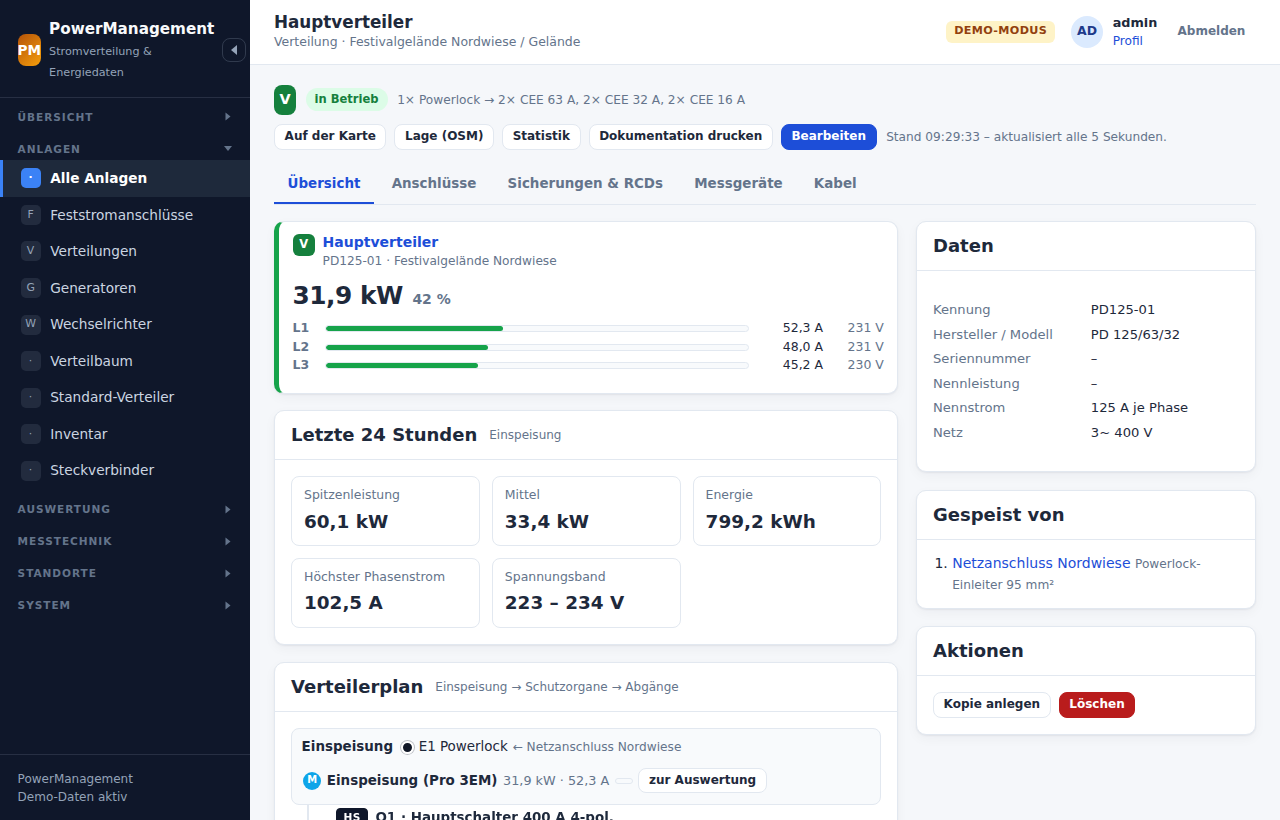
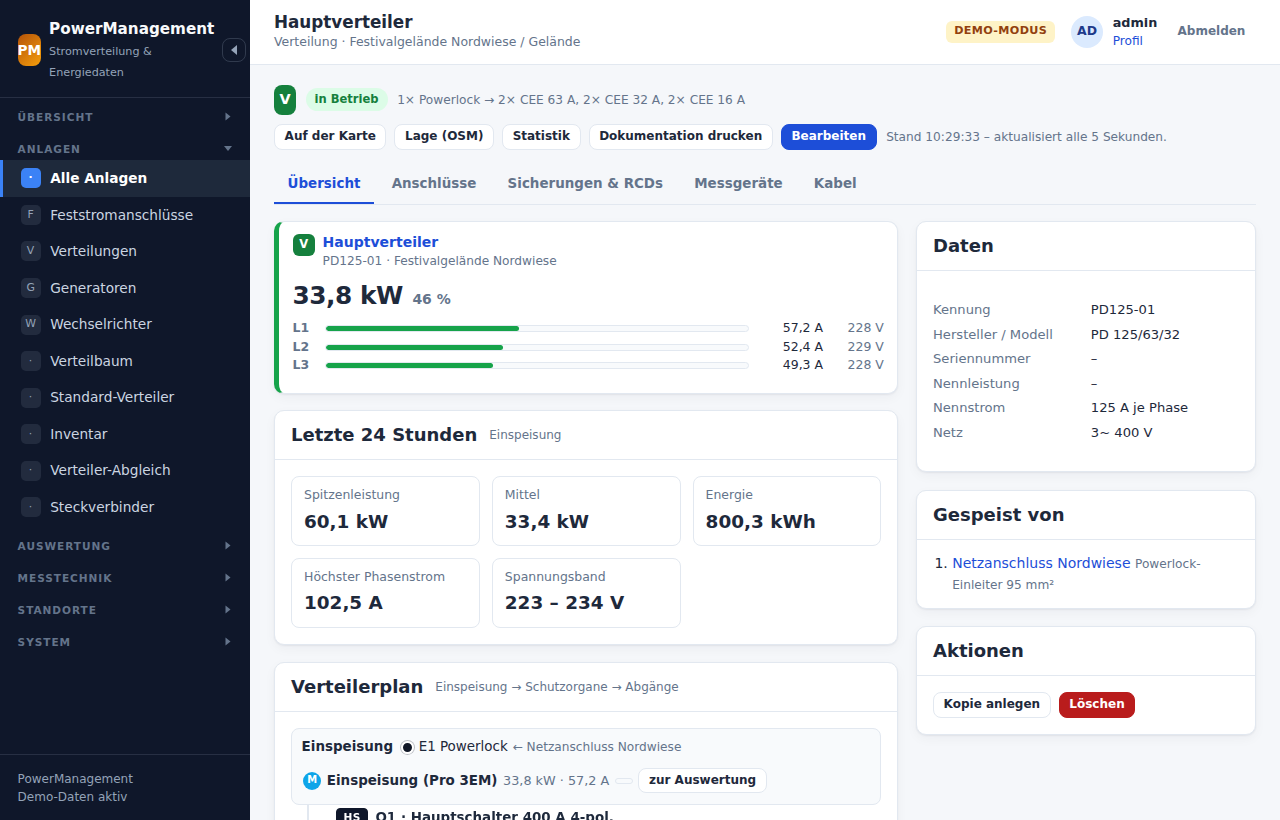
Aufnahme-Skript: Verteiler-Abgleich mit eigenem Repository; neue Adresse holt neu
docs/bilder/aufnehmen.mjs nimmt jetzt auch den Verteiler-Abgleich auf.
Dafür legt es sich ein Repository im Temp-Ordner an (git init --bare,
file://) – kein Token, kein Netz, auf GitHub landet nichts. Es lädt alles
hoch, lässt eine „zweite Installation“ (Lager) per git einen Shelly tauschen,
einen Verteiler anlegen und eine Seriennummer nachtragen, ändert hier zwei
Notizen und fotografiert die Liste mit allen Fällen. Danach stehen
Repository-Einstellung und Abgleich-Vermerke wieder wie vorher.

Dabei aufgefallen und behoben:
- Wurde in den Einstellungen eine andere Repository-Adresse eingetragen,
  arbeitete die Arbeitskopie still mit der alten weiter; ein leeres neues
  Repository hätte beim ersten Hochladen die Geschichte des alten bekommen.
  Jetzt wird die Arbeitskopie dann neu geholt (Prüfung im Test).
- Im Menü waren auf Unterseiten wie /anlagen/katalog zwei Einträge
  markiert (auch „Alle Anlagen“). Jetzt gewinnt der genaueste Pfad.

Neue und geänderte Bilder: verteiler-abgleich, katalog, inventar,
inventar-stueck, anlage, einsetzen, location (Menüeintrag, Knöpfe).

Claude-Session: https://claude.ai/code/session_01NdNDGfCteWePkd7EenfbVk

diff --git a/tests/verteiler-abgleich.php b/tests/verteiler-abgleich.php
@@ -316,6 +316,22 @@ try {
     gleich(VerteilerSync::pfad('location', 'x'), null, 'nur bekannte Bereiche');
     pruefe(!VerteilerSync::entfernen('inventar', '../README', 'pruefung')['ok'], 'Entfernen mit Pfad abgelehnt');
 
+    // ------------------------------------------------ Anderes Repository eingetragen
+    $zweites = $tmp . '/zweites.git';
+    $sh('git init -q --bare -b main ' . escapeshellarg($zweites));
+    Settings::put('inventory.repo_url', 'file://' . $zweites);
+    Config::set('inventory.repo_url', 'file://' . $zweites);
+    $holen = LocationSync::holen();
+    pruefe($holen['ok'], 'neues Repository geholt: ' . $holen['message']);
+    gleich(trim($sh('git -C ' . escapeshellarg($kopie) . ' remote get-url origin')), 'file://' . $zweites, 'Arbeitskopie zeigt auf das neue Repository');
+    $hoch = VerteilerSync::hochladen([['inventar', $vKey]], 'pruefung');
+    pruefe($hoch['ok'], 'ins neue Repository hochgeladen: ' . $hoch['message']);
+    gleich((int) trim($sh('git --git-dir=' . escapeshellarg($zweites) . ' rev-list --count main')), 1, 'das neue Repository bekommt nicht die Geschichte des alten');
+    pruefe(trim($sh('git --git-dir=' . escapeshellarg($zweites) . ' ls-tree -r --name-only main -- verteiler/inventar')) === 'verteiler/inventar/' . $vKey . '.json',
+        'im neuen Repository nur das hochgeladene Stück');
+    Settings::put('inventory.repo_url', 'file://' . $fern);
+    Config::set('inventory.repo_url', 'file://' . $fern);
+
     // ------------------------------------------------ Location-Abgleich lässt Katalog-Typen in Ruhe
     $strom = LocationBundle::stromAnwenden($siteId, ['format' => 2, 'art' => 'strom', 'anlagen' => [[
         'schluessel' => $typSchluessel, 'art' => 'anschluss', 'fest' => true, 'name' => $k . ' Säule', 'etage' => null,

diff --git a/resources/views/partials/nav.php b/resources/views/partials/nav.php
@@ -48,6 +48,17 @@ $groups = [
     ],
 ];
 $query = (string) (parse_url((string) ($activePath ?? '/'), PHP_URL_QUERY) ?? '');
+// Der längste passende Pfad gewinnt: auf /anlagen/katalog ist es
+// „Standard-Verteiler“, nicht zugleich „Alle Anlagen“ (/anlagen).
+$genauester = '';
+foreach ($groups as $items) {
+    foreach ($items as $item) {
+        $pfad = explode('?', $item[0], 2)[0];
+        if ($is($pfad) !== '' && strlen($pfad) > strlen($genauester)) {
+            $genauester = $pfad;
+        }
+    }
+}
 ?>
 <nav class="sidebar">
     <div class="brand">
@@ -67,12 +78,13 @@ $query = (string) (parse_url((string) ($activePath ?? '/'), PHP_URL_QUERY) ?? ''
         if ($visible === []) {
             continue;
         }
-        $aktivIn = static function (string $href) use ($path, $query, $is): bool {
+        $aktivIn = static function (string $href) use ($path, $query, $is, $genauester): bool {
             $teile = explode('?', $href, 2);
             if (isset($teile[1])) {
                 return $path === $teile[0] && str_contains('&' . $query . '&', '&' . $teile[1] . '&');
             }
-            return $is($teile[0]) !== '' && ($query === '' || $teile[0] !== '/anlagen' || (!str_contains($query, 'art=') && !str_contains($query, 'fest=1')));
+            return $is($teile[0]) !== '' && $teile[0] === $genauester
+                && ($query === '' || $teile[0] !== '/anlagen' || (!str_contains($query, 'art=') && !str_contains($query, 'fest=1')));
         };
         $offen = false;
         foreach ($visible as $item) {

diff --git a/src/Services/LocationSync.php b/src/Services/LocationSync.php
@@ -203,6 +203,21 @@ final class LocationSync
             return ['ok' => false, 'message' => 'Der Ordner für die Arbeitskopie ließ sich nicht anlegen.', 'commit' => ''];
         }
 
+        if (is_dir($kopie . '/.git')) {
+            /*
+             * Steht in den Einstellungen inzwischen ein anderes Repository,
+             * gehört die Arbeitskopie zum alten. Sie ist ein Spiegel, also
+             * wird sie neu geholt. Sonst liefen Abfragen und Hochladen still
+             * weiter gegen die alte Adresse – und ein noch leeres neues
+             * Repository bekäme beim ersten Hochladen die Geschichte des
+             * alten mit.
+             */
+            $herkunft = self::git(['remote', 'get-url', 'origin'], $kopie);
+            if (!$herkunft['ok'] || trim($herkunft['ausgabe']) !== self::repoUrl()) {
+                self::verzeichnisWeg($kopie);
+            }
+        }
+
         if (!is_dir($kopie . '/.git')) {
             /*
              * Reste eines abgebrochenen Klonens wegräumen. Git legt das

diff --git a/docs/bedienung.md b/docs/bedienung.md
@@ -478,6 +478,8 @@ verglichen mit dem Stand beim letzten Abgleich:
 | hier und dort geändert | beide Seiten haben geändert | Übernehmen *oder* Hochladen – der gewählte Stand gilt |
 | dort entfernt | wurde aus dem Repository genommen | Hochladen (wieder hinein) |
 
+![Verteiler-Abgleich: hier und dort geändert, dort neuer, nur im Repository, hier geändert](bilder/verteiler-abgleich.png)
+
 **Alle übernehmen** und **Alle hochladen** nehmen nur die eindeutigen Fälle
 und überschreiben nie eine Änderung der anderen Seite. Ein Stück, dessen Typ
 es hier noch nicht gibt, bringt ihn beim Übernehmen mit; beim Hochladen geht

diff --git a/CLAUDE.md b/CLAUDE.md
@@ -86,5 +86,12 @@ php -S 127.0.0.1:8080 -t public &
 NPM_ROOT=$(npm root -g) node docs/bilder/aufnehmen.mjs http://127.0.0.1:8080
 ```
 
+Für den Verteiler-Abgleich legt das Skript sich ein eigenes Repository im
+Temp-Ordner an (kein Token, nichts auf GitHub) und stellt Einstellungen und
+Abgleich-Vermerke danach wieder her – der Server muss dafür diese
+Arbeitskopie ausliefern (`php` und `git` im PATH). Nur Bilder mit geänderter
+Oberfläche einchecken; die übrigen unterscheiden sich nur in Zeiten und
+Messwerten.
+
 Andere Bildschirmfotos (Prüfen, Fehlersuche) und Wegwerfdateien gehören
 nicht ins Repository.
